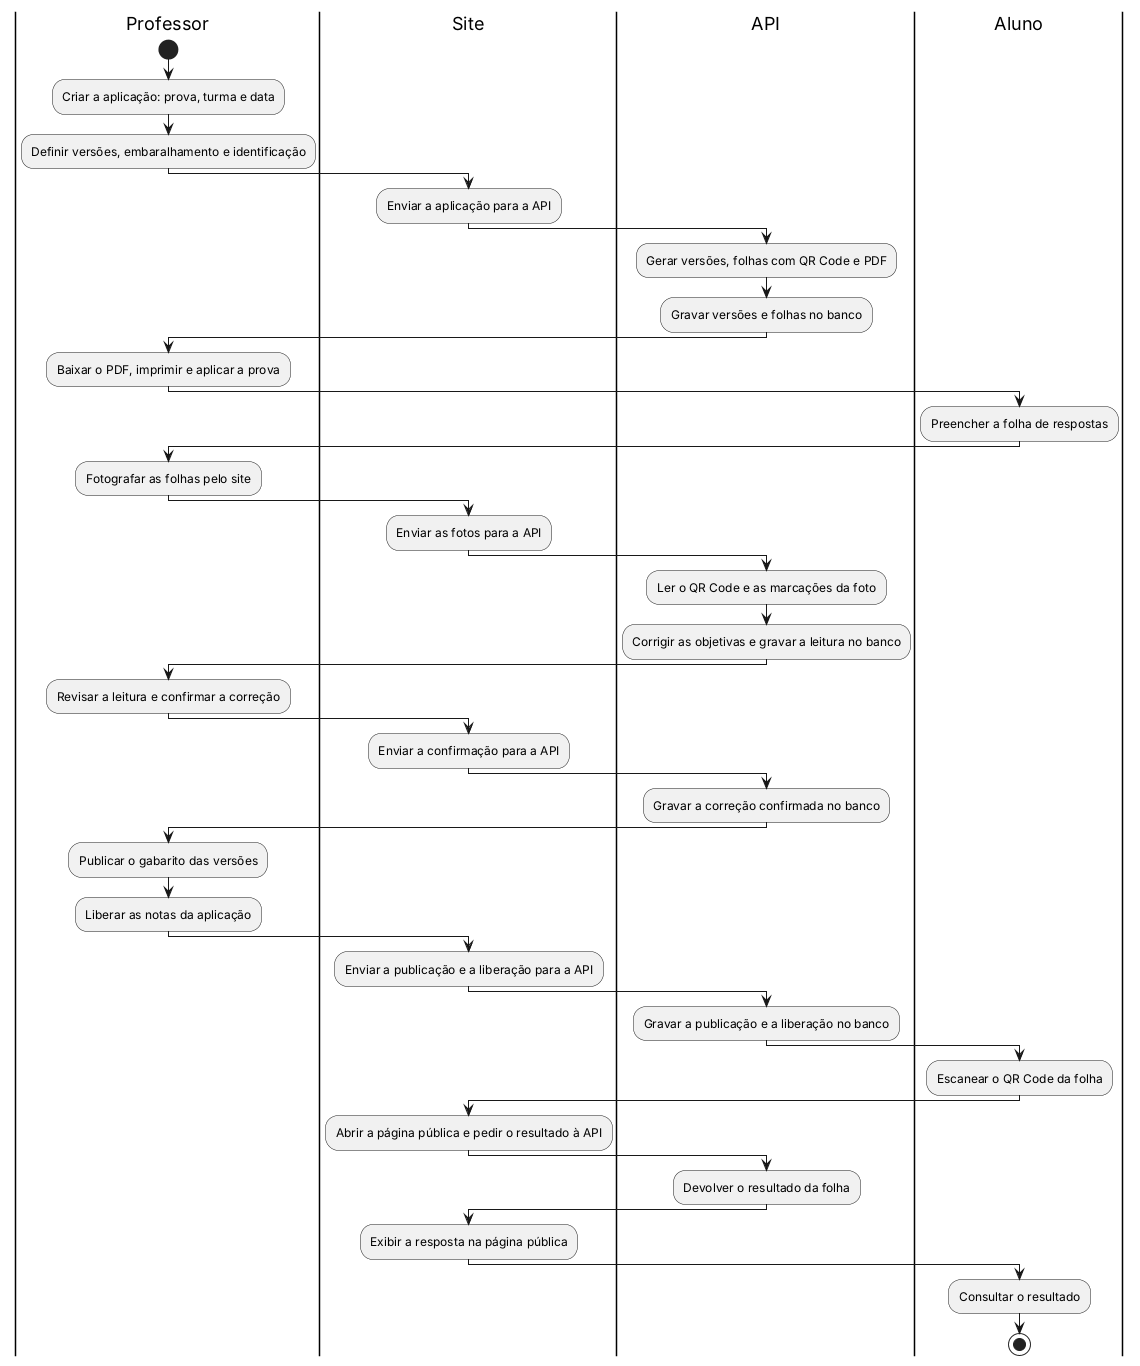
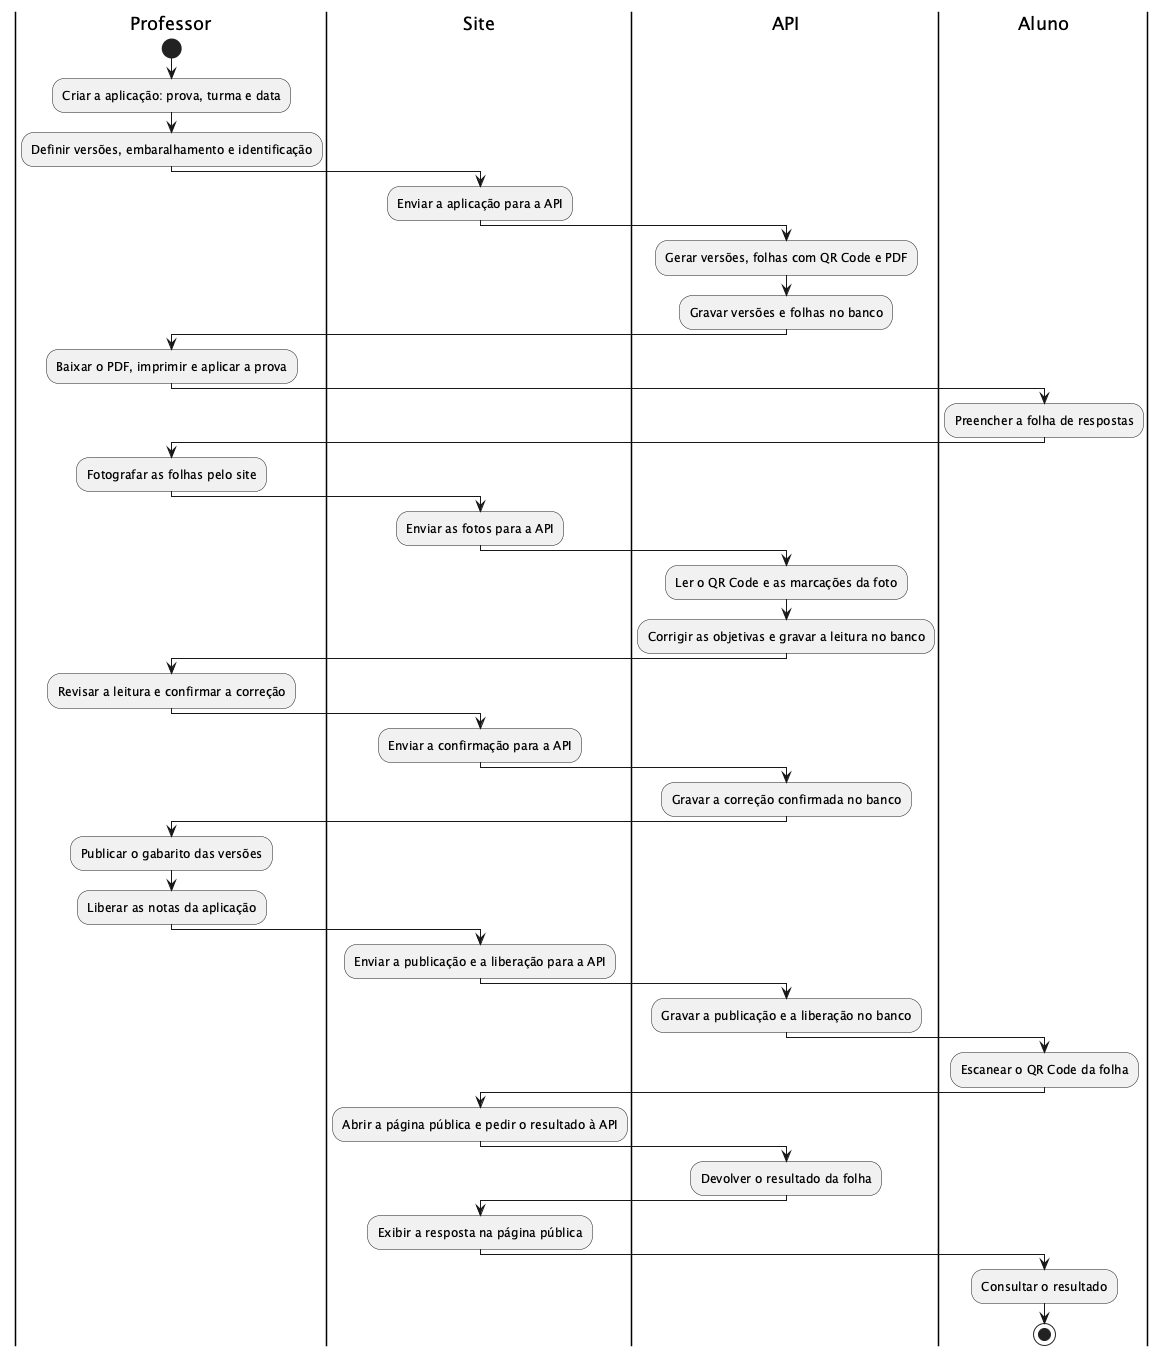
feat(web): correction card leads to the report and the unassigned sheets; activity diagram fully solid (#48, #78)

diff --git a/apps/web/src/features/applications/pages/ApplicationDetailPage.tsx b/apps/web/src/features/applications/pages/ApplicationDetailPage.tsx
@@ -5,6 +5,7 @@ import { ActionMenu, Badge, Button, Card, PageHeader, QueryBoundary, Tour, type 
 import { buildPath, ROUTES } from '@/app/routes';
 import { canRegenerate } from '@/lib/applications';
 import { useStudentsWithRemoved } from '@/features/classes';
+import { useUnassignedCorrections } from '@/features/grading/hooks/useGrading';
 import type { ApplicationOverview } from '@/types/domain';
 import { APPLICATION_STATUS_LABEL, correctionBlockerOf, examTitleOf, sittingOf } from '../application-labels';
 import { ArchiveApplicationDialog } from '../components/ArchiveApplicationDialog';
@@ -165,11 +166,17 @@ function ArchivedNotice({ onRestore }: Readonly<{ onRestore: () => void }>) {
   );
 }
 
+/** A link with the look of the secondary button, for the actions of the correction card. */
+const LINK_BUTTON =
+  'touch-target inline-flex items-center justify-center self-start rounded-[var(--radius-control)] border border-primary bg-surface px-4 text-label font-semibold text-primary hover:bg-surface-muted';
+
 /**
  * How far the correction has gone, counting only the sheets whose correction
  * the teacher confirmed: one still waiting for an open-ended score is not
  * corrected yet. "Corrigir folhas" is a link, as on the panel and on P11's
  * menu, and before the paper exists it says why there is nothing to correct.
+ * Once something is corrected, the card leads to the report (P18), and to the
+ * sheets still waiting for their student (P17) only when there are any (#143).
  */
 function CorrectionCard({ application }: Readonly<{ application: ApplicationOverview }>) {
   const { correctedSheets, sheets } = application.progress;
@@ -182,9 +189,16 @@ function CorrectionCard({ application }: Readonly<{ application: ApplicationOver
         {correctedSheets} de {sheets} folhas corrigidas
       </p>
       {blocker === undefined ? (
-        <Button variant="secondary" className="self-start" data-tour="grading">
-          <Link to={buildPath(ROUTES.grading, { id: application.id })}>Corrigir folhas</Link>
-        </Button>
+        <div className="flex flex-wrap gap-3">
+          <Link to={buildPath(ROUTES.grading, { id: application.id })} className={LINK_BUTTON} data-tour="grading">
+            Corrigir folhas
+          </Link>
+          {application.progress.corrections > 0 && (
+            <Link to={buildPath(ROUTES.applicationReport, { id: application.id })} className={LINK_BUTTON}>
+              Ver relatório
+            </Link>
+          )}
+        </div>
       ) : (
         <>
           <Button variant="secondary" className="self-start" data-tour="grading" disabled>
@@ -193,6 +207,19 @@ function CorrectionCard({ application }: Readonly<{ application: ApplicationOver
           <p className="text-caption text-ink-subtle">{blocker}</p>
         </>
       )}
+      <UnassignedLink applicationId={application.id} />
     </Card>
+  );
+}
+
+function UnassignedLink({ applicationId }: Readonly<{ applicationId: string }>) {
+  const unassigned = useUnassignedCorrections(applicationId);
+  const count = unassigned.data?.length ?? 0;
+  if (count === 0) return null;
+
+  return (
+    <Link to={buildPath(ROUTES.unassignedCorrections, { id: applicationId })} className="text-label text-primary underline">
+      Pendentes de atribuição ({count})
+    </Link>
   );
 }

diff --git a/docs/uml/activity-diagram/activity-diagram.md b/docs/uml/activity-diagram/activity-diagram.md
@@ -38,10 +38,8 @@ criação até a nota chegar ao aluno.
 Antes de desenhar, listamos o processo na ordem em que ele acontece na N2. Na N1, tudo rodava
 no navegador, e o PDF e a leitura da foto eram simulados. Na N2, o site manda os dados para a
 API, a API grava no MySQL, o PDF é gerado de verdade e a leitura do QR Code e das marcações é
-real. Os itens marcados com _Previsto na N2_ são os três pontos que já eram tracejados na N1:
-estão nos requisitos, mas o sistema publicado ainda não os faz. Eles aparecem tracejados no
-diagrama, com a issue que os implementa ao lado, e viram linha cheia quando essa issue mergear
-(veja a legenda no Passo 5).
+real. Os três pontos que eram tracejados na N1 viraram linha cheia ao longo da N2, conforme as
+issues que os implementam mergearam (veja a legenda no Passo 5).
 
 1. O Professor cria a aplicação, escolhendo a prova, a turma e a data.
 2. O Professor define o número de versões, o embaralhamento (herdado da prova) e se a prova
@@ -51,8 +49,8 @@ diagrama, com a issue que os implementa ao lado, e viram linha cheia quando essa
 4. O Professor baixa o PDF, imprime e aplica a prova, e o Aluno preenche a folha de respostas.
 5. O Professor fotografa as folhas pelo site, e o Site envia as fotos para a API.
 6. A API lê o QR Code e as marcações da foto.
-7. **Decisão:** a leitura foi reconhecida? _Previsto na N2 ([#48] e [#78]): hoje a leitura é
-   simulada e sempre reconhece a folha._
+7. **Decisão:** a leitura foi reconhecida? A API lê o QR Code e as marcações ([#47], [#48] e
+   [#78]).
    - **[Não]** → o Professor insere a correção manualmente (RF30) e segue para o passo 10.
    - **[Sim]** → a API corrige as objetivas e grava a leitura no banco.
 8. **Decisão:** a prova tem discursivas?
@@ -82,8 +80,8 @@ diagrama, com a issue que os implementa ao lado, e viram linha cheia quando essa
 18. **Decisão:** as notas foram liberadas e a folha já foi corrigida?
     - **[Não]** → a API devolve só o gabarito.
     - **[Sim]** → segue para o passo 19.
-19. **Decisão:** a correção foi confirmada e concluída? _Previsto na N2 ([#47]): hoje a página
-    mostra a nota mesmo com a correção em andamento (RNF07 e RF47)._
+19. **Decisão:** a correção foi confirmada e concluída? A nota só aparece depois da confirmação
+    do professor (RNF07 e RF47, [#47]).
     - **[Não]** → a API devolve só o gabarito.
     - **[Sim]** → a API devolve o gabarito, a nota e os acertos.
 20. O Site exibe a resposta na página pública, e o Aluno consulta o resultado (fim).
@@ -140,8 +138,8 @@ Toda vez que o fluxo passa do Site para a API, um dado sai do navegador, e as at
 Incluímos os dois desvios da leitura. Se a API não reconhece a folha (QR Code ilegível, por
 exemplo), o professor insere a correção manualmente (RF30). Se reconhece, a nota é calculada,
 mas só vai sozinha para o aluno quando a prova tem identificação; sem identificação, a folha
-fica pendente até o professor associá-la ao aluno (RF31). O desvio da correção manual fica
-tracejado até a [#48] e a [#78] mergearem, porque hoje a leitura é simulada e nunca falha.
+fica pendente até o professor associá-la ao aluno (RF31). A foto é lida pela API
+desde a [#47], com a tela de envio da [#48] e o leitor da [#78].
 
 ![Diagrama de atividades do Correctio, etapa 3](activity-diagram-step-3.png)
 
@@ -176,13 +174,13 @@ O PlantUML não desenha losango tracejado. Por isso, a decisão prevista aparece
 e "previsto" no rótulo, e o caminho que ela cria fica tracejado. Enquanto a issue não mergeia,
 o fluxo passa por esse losango sempre pelo caminho de linha cheia.
 
-Na N1, três pontos eram tracejados. O "Gabarito publicado?" virou linha cheia com a [#46], e a
-nota só depois da confirmação do professor, com a [#47]. O ponto que resta continua tracejado,
-porque as issues que o implementam ainda estão abertas:
+Na N1, três pontos eram tracejados. Na N2 os três viraram linha cheia: o "Gabarito publicado?"
+com a [#46]; a nota só depois da confirmação do professor, com a [#47]; e a leitura reconhecida,
+com a correção manual como desvio (RF30), com a [#48] e a [#78]. Nenhum ponto continua tracejado,
+mas a legenda fica para os próximos pontos previstos:
 
 | Ponto tracejado                                                  | Como aparece no diagrama                                                             | Vira linha cheia quando mergear |
 | ---------------------------------------------------------------- | ------------------------------------------------------------------------------------ | ------------------------------- |
-| "Leitura reconhecida?" e "Inserir a correção manualmente" (RF30) | "Leitura reconhecida? previsto (#48 e #78)" e "Inserir a correção manualmente (#48)" | [#48] e [#78]                   |
 
 A troca para linha cheia é um item do checklist da [#47] e da [#48]: quem fechar cada uma
 atualiza o diagrama, como mostra o apêndice.
@@ -211,8 +209,8 @@ Checklist usado para conferir o resultado antes de fechar:
       seguir.
 - [x] O laço "Salvar sem finalizar" volta para a revisão, sem repetir o envio da foto.
 - [x] Quem grava no banco é sempre a API, e o nome da atividade diz isso.
-- [x] Os pontos previstos (RF30, RNF07 e RF47) estão tracejados, com a issue ao lado, e a
-      legenda diz quando viram linha cheia.
+- [x] Os pontos que eram previstos (RF30, RNF07 e RF47) estão em linha cheia, e a legenda diz
+      como marcar um novo ponto previsto.
 - [x] O fluxo cobre RF26 a RF33, RF46, RF47, RNF07 e as telas P14, P15, P16, P17 e PUB1.
 
 ---
